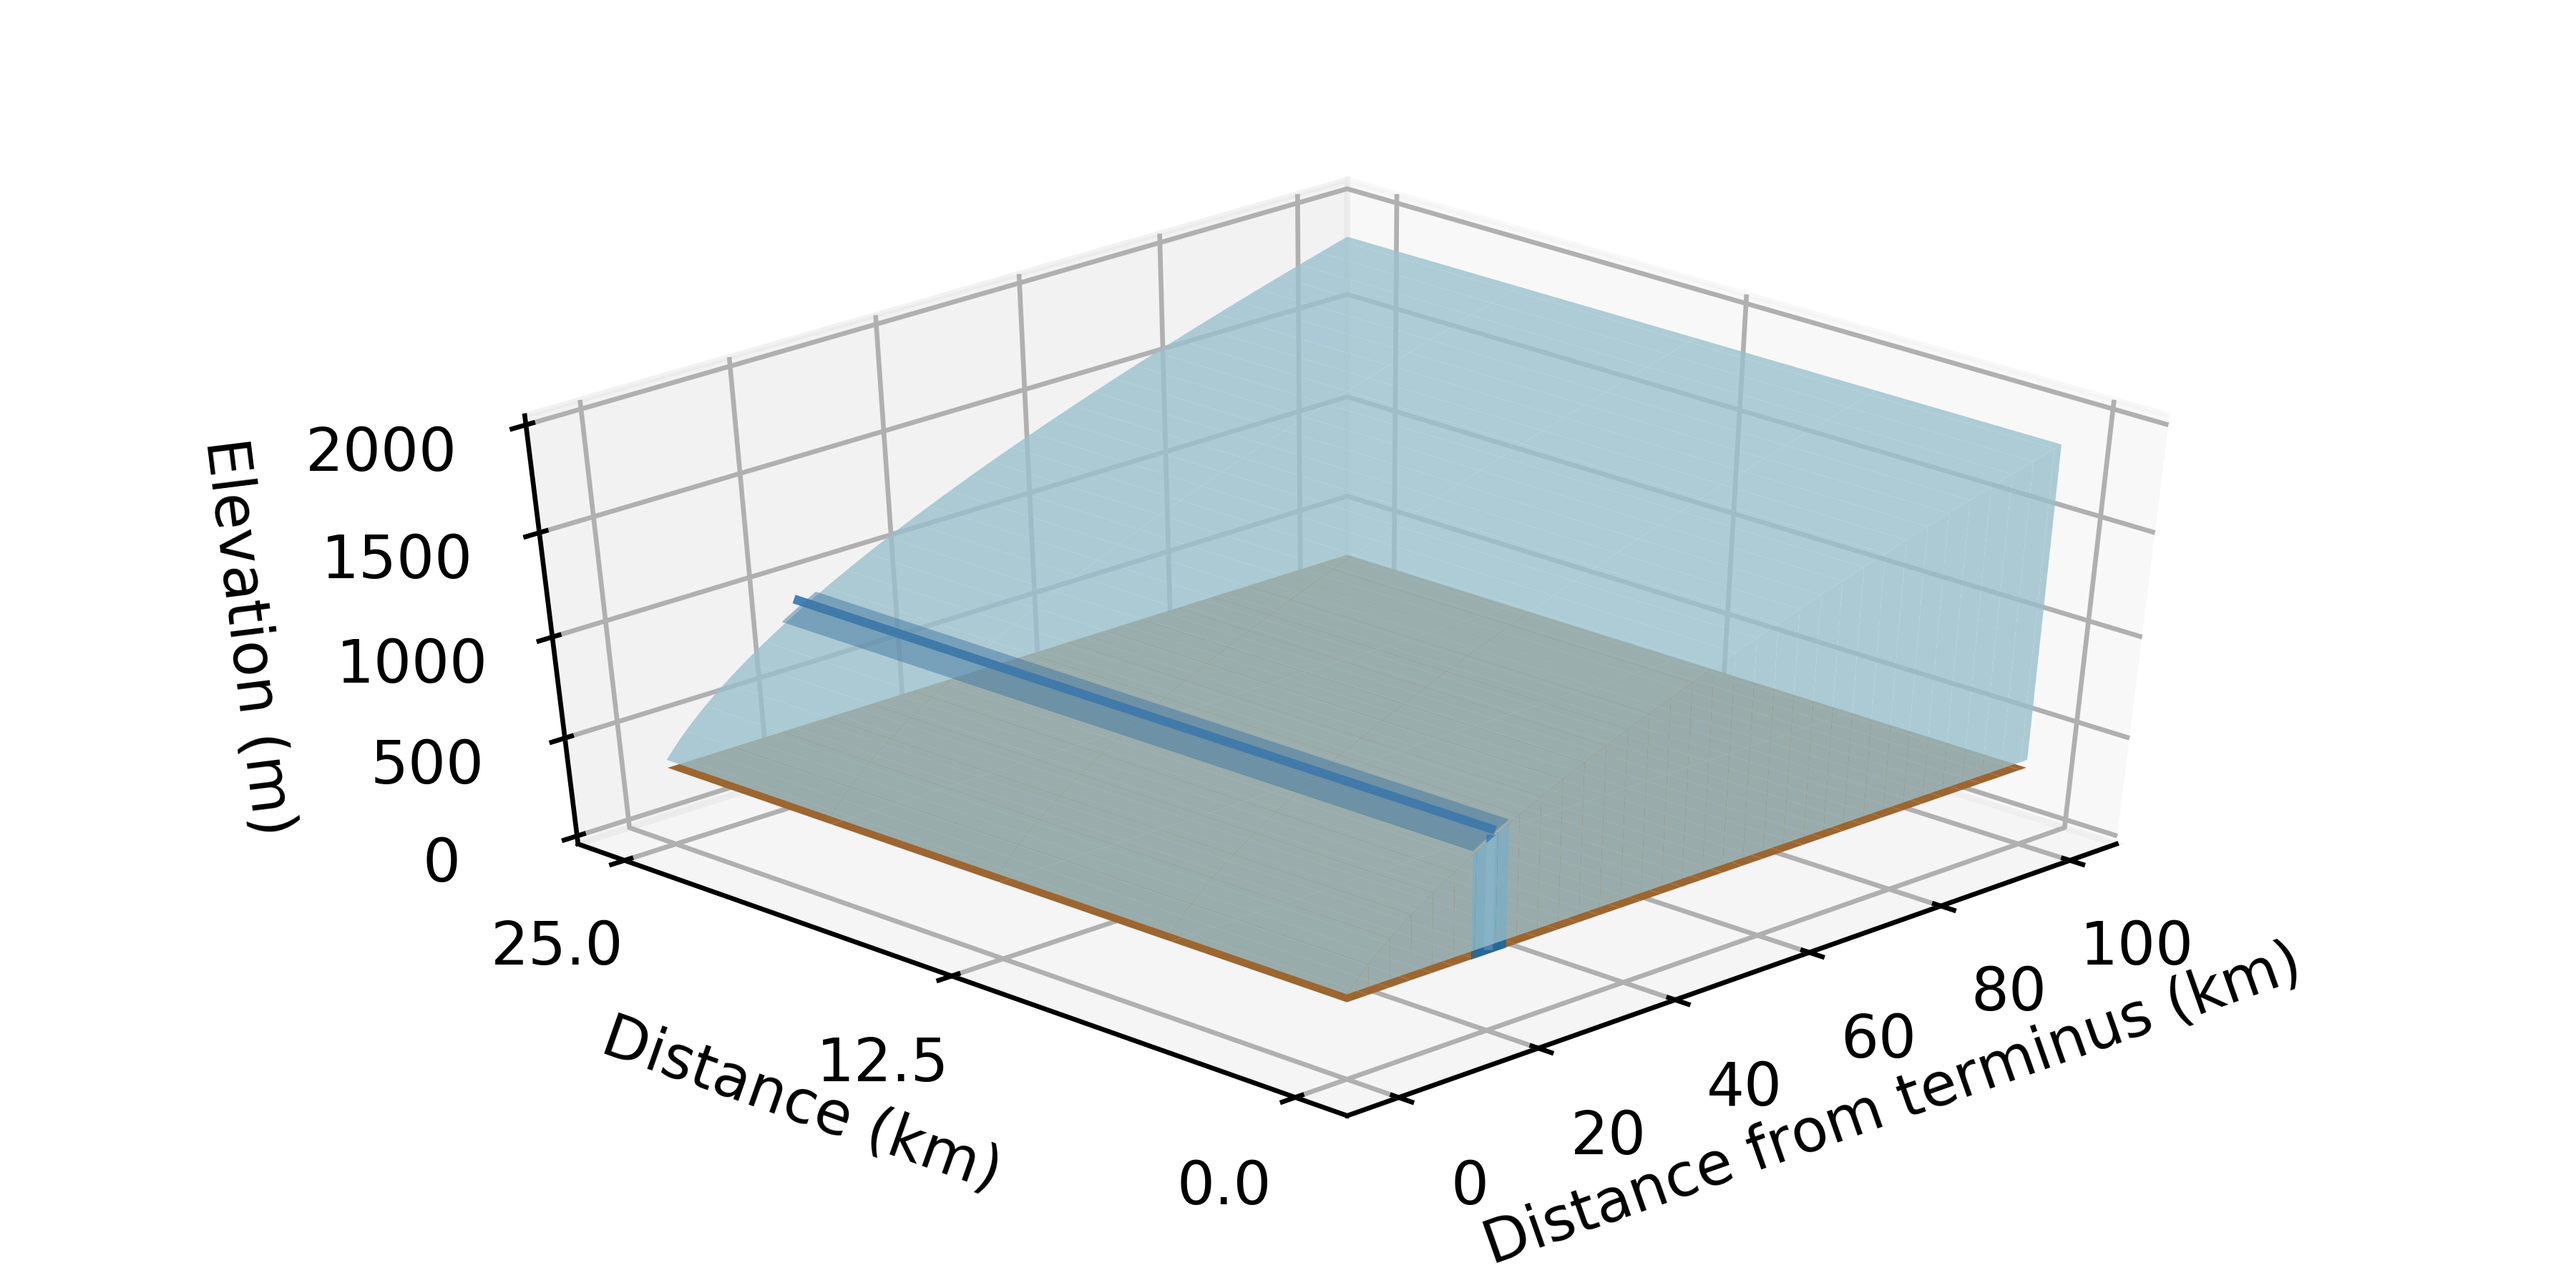
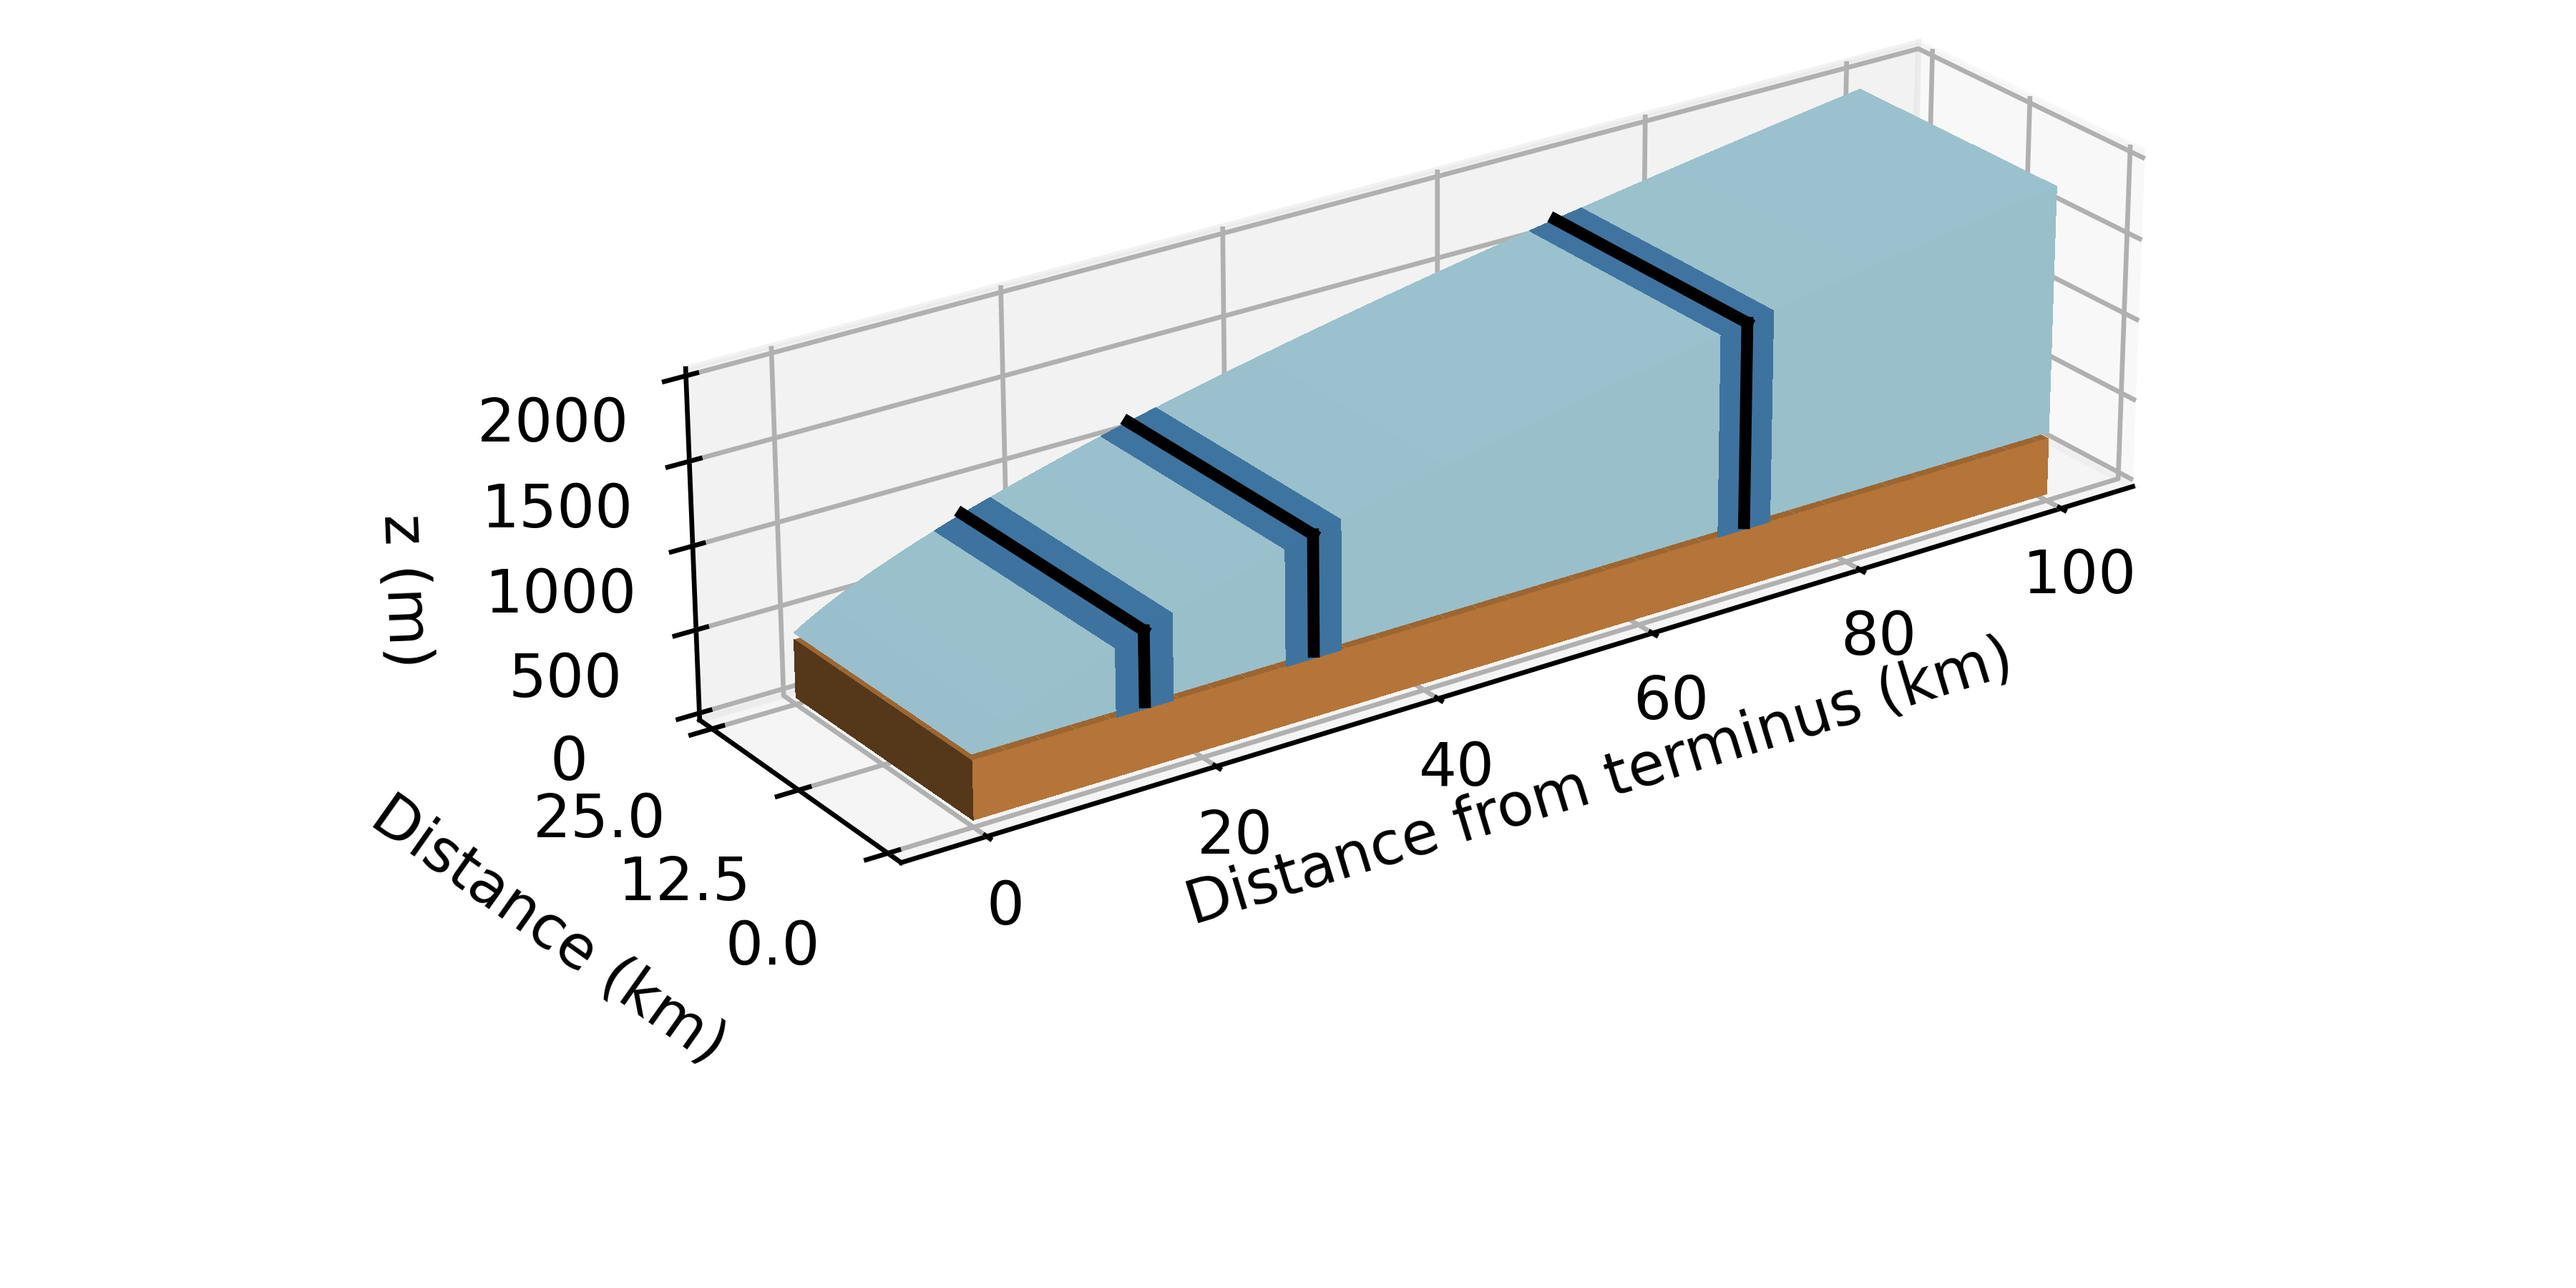
3D figure

diff --git a/analysis/plot_bed_ice_profiles.py b/analysis/plot_bed_ice_profiles.py
@@ -28,7 +28,7 @@ line_color = 'k'
 # band_color = 'lightslategrey'
 band_color = 'steelblue'
 figname = 'domain_profile.png'
-figsize=(6, 3)
+figsize=(6, 6)
 
 bands = [15, 30, 70]
 band_width = 5
@@ -48,7 +48,6 @@ ax = fig.add_subplot(projection='3d', computed_zorder=False)
 
 # Plot bed
 ax.plot_surface(xx/1e3, yy/1e3, bed, color=bed_color, edgecolor='none', zorder=0)
-ax.plot_surface(xx/1e3, yy/1e3, surf, color=ice_color, edgecolor='none', alpha=1, zorder=0, antialiased=False)
 xs = [0, 100]
 ys = [0, 0]
 zzs = 0*xs
@@ -70,7 +69,8 @@ z1[0] = 390
 print(xx1)
 print(yy1)
 print(z1)
-ax.plot_surface(xx1/1e3, yy1/1e3, z1, color=ice_color, edgecolor='none', alpha=1, zorder=0, antialiased=False)
+ax.plot_surface(xx/1e3, yy/1e3, surf, color=ice_color, edgecolor=ice_color, alpha=1, zorder=0, antialiased=False, linewidth=0.25)
+ax.plot_surface(xx1/1e3, yy1/1e3, z1, color=ice_color, edgecolor=ice_color, alpha=1, zorder=0, antialiased=False, linewidth=0.25)
 
 # Plot bands
 for xb in bands:
@@ -89,23 +89,28 @@ for xb in bands:
     ax.plot_surface(xxs, yys*0, z3, zorder=2, color=band_color, alpha=1, antialiased=False)
 
 # Plot moulins
-dmesh = nc.Dataset('
+# dmesh = nc.Dataset('../glads/data/mesh/mesh_04.nc')
+moulins = np.loadtxt('../glads/data/moulins/moulins_068.txt')
+print(moulins)
+moulinx = moulins[:, 1]
+mouliny = moulins[:, 2]
+moulinz = surf_fun(moulinx)
+
+ax.plot(moulinx/1e3, mouliny/1e3, moulinz, marker='.', color='k', zorder=6, linestyle='')
 
 
 ax.set_xticks([0, 20, 40, 60, 80, 100])
 ax.set_yticks([0, 12.5, 25])
 ax.set_zticks([0, 500, 1000, 1500, 2000])
 
-ax.set_xlabel('Distance from terminus (km)', labelpad=12)
+ax.set_xlabel('Distance from terminus (km)', labelpad=20)
 ax.set_ylabel('Distance (km)')
-ax.set_zlabel('z (m)')
+ax.zaxis.set_rotate_label(False)  # disable automatic rotation
+ax.set_zlabel('z (m)', rotation=90)
 
 ax.view_init(elev=24, azim=-125) #Works!
-# ax.set_adjustable('box')
 ax.set_box_aspect((4, 1, 1))
 ax.set_aspect('equalxy')
-# print(ax)
-# print(dir(ax))
 
 
 # ax.set_box_aspect(1)
@@ -135,7 +140,16 @@ ax.set_aspect('equalxy')
 # ax.set_ylabel('Elevation (m)')
 
 # fig.subplots_adjust(left=0.12, right=0.98, top=0.95, bottom=0.23)
-ax.set_position(Bbox.from_bounds(-0.45, 0.05, 2, 1.2))
+# ax.set_position(Bbox.from_bounds(-0.6, 0.5, 2, 0.65))
+ax.set_position(Bbox.from_extents(0.1, 0.4, 1, 1.15))
+
+ax2 = fig.add_subplot()
+ax2.set_position(Bbox.from_bounds(0.15, 0.1, 0.8, 0.35))
+
+ax2.set_xlabel('Elevation (m)')
+ax2.set_ylabel(r'Density (km$^{-2}$)')
+ax2.grid()
+
 fig.savefig(figname, dpi=600)
 
 plt.show()
